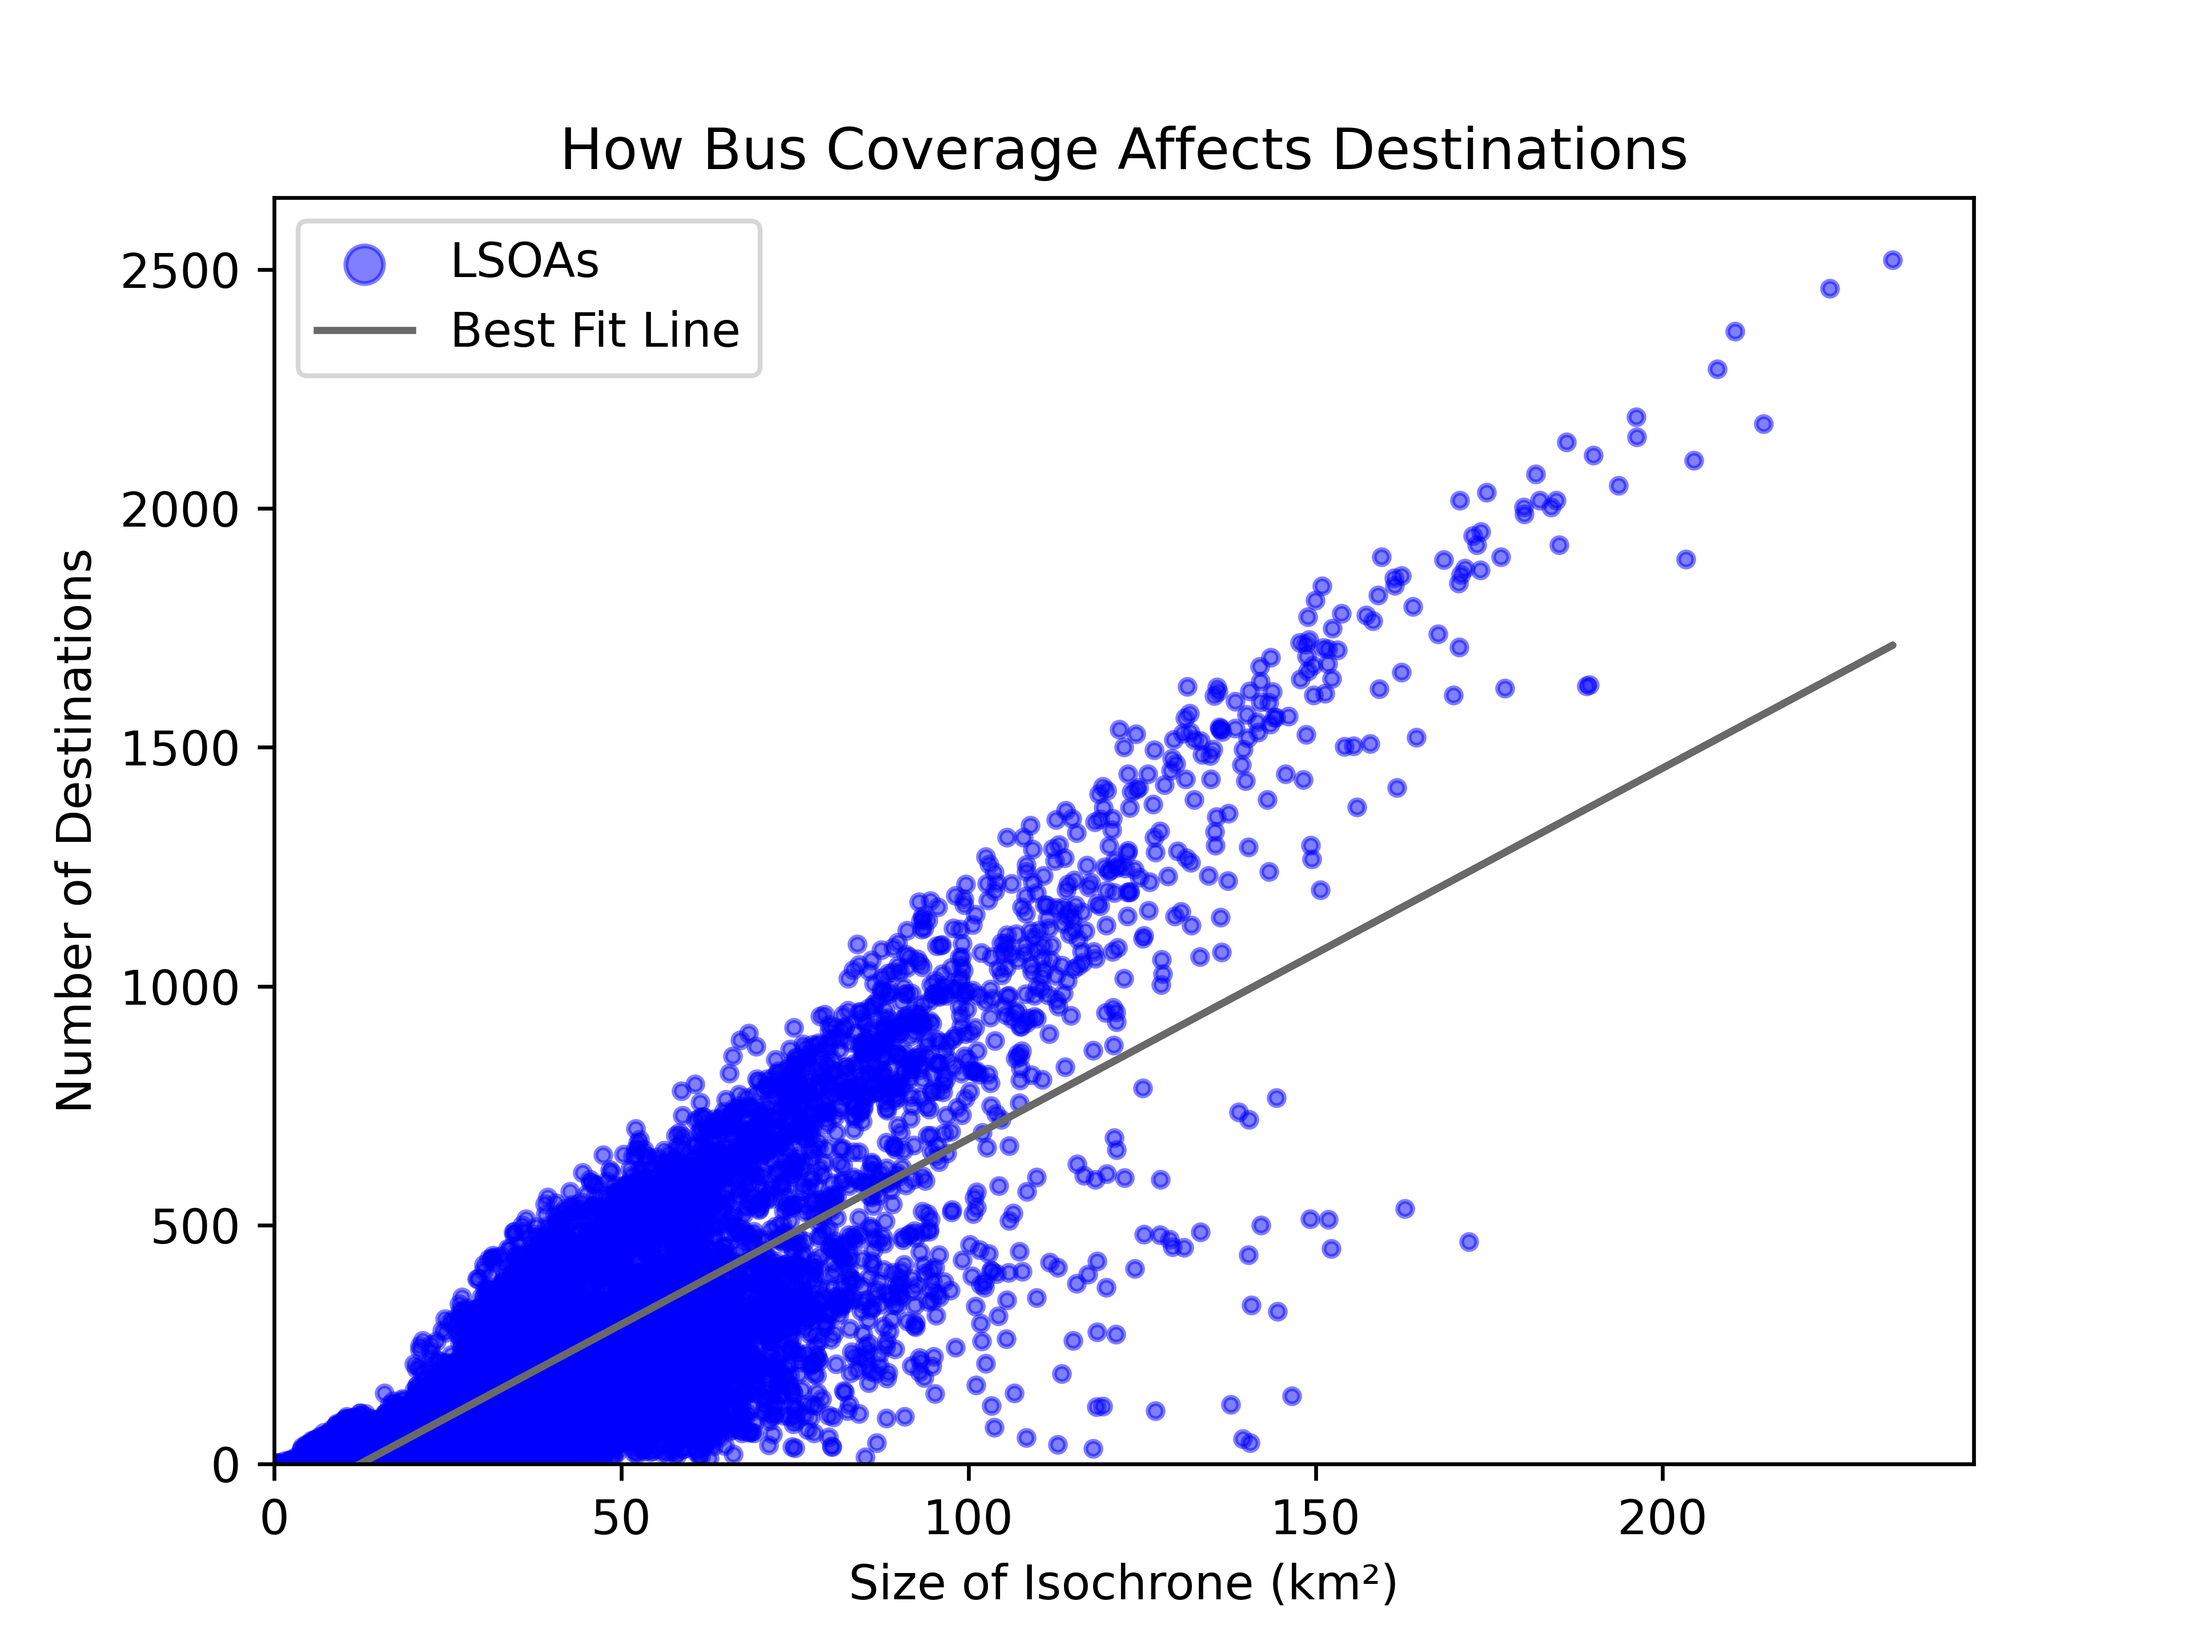
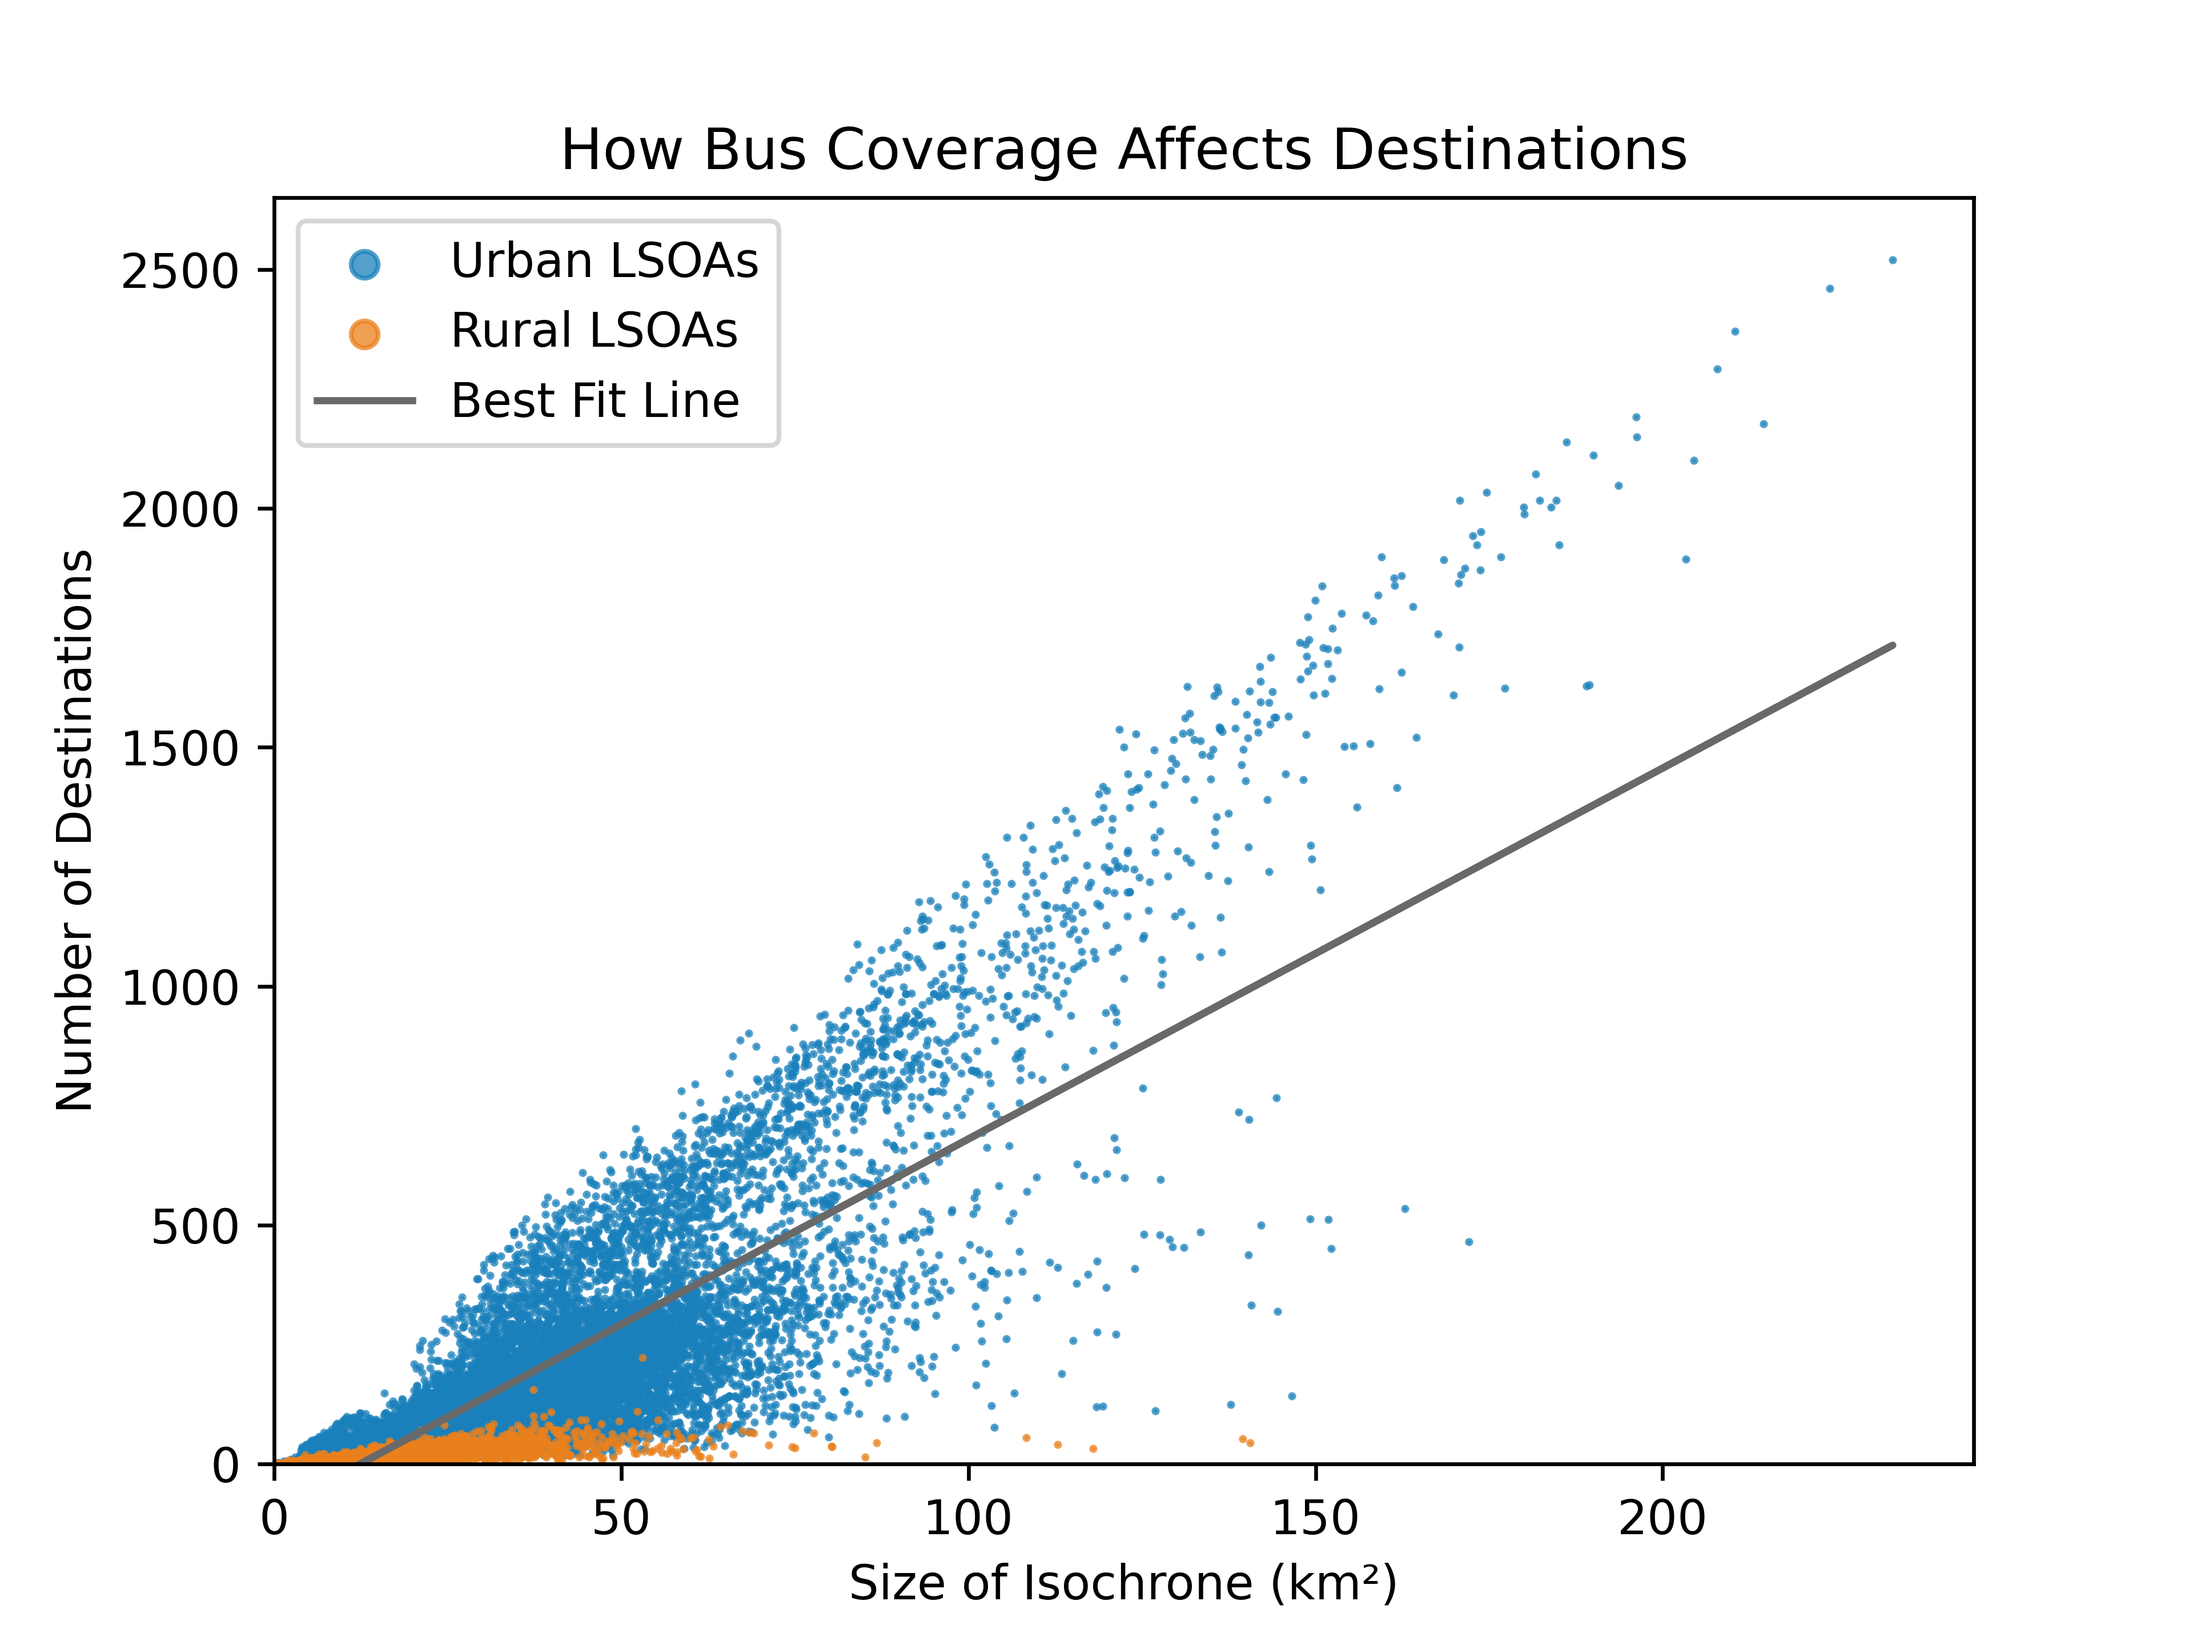
Create new scatterplots to look at comparing destinations to areas

diff --git a/plotting/size_destinations_scatterplot.py b/plotting/size_destinations_scatterplot.py
@@ -1,15 +1,24 @@
 import numpy as np
 import pandas as pd
+import geopandas as gpd
 import matplotlib.pyplot as plt
 from scipy.stats import pearsonr
-from common.data import OUT_DIR
+from common.data import OUT_DIR, load_dataset, Datasets
 
-# Load areas and destination results
+# Load LSOA boundaries
+lsoas = load_dataset(Datasets.LSOA_BOUNDARIES)
+
+# Load isochrone area values
 areas = pd.read_csv(OUT_DIR / "areas" / "lsoas.csv")
-destinations = pd.read_csv(OUT_DIR / "destinations" / "totals.csv")
+areas: gpd.GeoDataFrame = lsoas.merge(areas, on="id")
 
-# Create single dataframe
+# Create single dataframe with destination results
+destinations = pd.read_csv(OUT_DIR / "destinations" / "totals.csv")
 results = pd.merge(areas, destinations, on="id")
+
+# Create seperate dataframes for rural and urban LSOAs
+urban = results[results['ruc'].isin(["UN1", "UF1"])]
+rural = results[results['ruc'].isin(["RSN1", "RLN1", "RLF1", "RSF1"])]
 
 # Calculate correlation coefficients
 car_coef = pearsonr(results['car_area'], results['total_car'])
@@ -41,13 +50,14 @@ plt.close()
 #
 # ---------------------------------
 
-# Plot area to destinations as scatterplot
-plt.scatter(results['bus_area'], results['total_bus'], color="blue", alpha=0.5, s=10, label="LSOAs")
+# Plot area to destinations as scatterplot by ruc classification
+plt.scatter(urban['bus_area'], urban['total_bus'], color="#1a80bb", alpha=0.75, s=0.5, label="Urban LSOAs")
+plt.scatter(rural['bus_area'], rural['total_bus'], color="#ea801c", alpha=0.75, s=0.5, label="Rural LSOAs")
 
 # Add line of best fit
 slope, intercept = np.polyfit(results['bus_area'], results['total_bus'], 1)
 plt.plot(results['bus_area'], slope*results['bus_area'] + intercept, color='dimgrey', linestyle='solid', linewidth=1.5, label='Best Fit Line')
-plt.legend(loc="upper left", fontsize=10, markerscale=2.5)
+plt.legend(loc="upper left", fontsize=10, markerscale=8)
 
 # Add title and labels
 plt.title('How Bus Coverage Affects Destinations')
@@ -66,15 +76,27 @@ plt.close()
 #
 # ---------------------------------
 
-# Plot area to destinations as scatterplot
-plt.scatter(results['ratio_x'], results['ratio_y'], color="blue", alpha=0.5, s=10)
+# Calculate correlation coefficients
+urban_coef = pearsonr(urban['ratio_x'], urban['ratio_y'])
+print(f"[URBAN] Area-Destinations Correlation Coefficient: {urban_coef.statistic:.2f} ({urban_coef.pvalue})")
+rural_coef = pearsonr(rural['ratio_x'], rural['ratio_y'])
+print(f"[RURAL] Area-Destinations Correlation Coefficient: {rural_coef.statistic:.2f} ({rural_coef.pvalue})")
+
+# Filter out outliers
+urban = urban[(urban['ratio_x'] < 0.3) & (urban['ratio_y'] < 1)]
+
+# Plot area to destinations as scatterplot with different colours for urban-rural
+plt.scatter(urban['ratio_x'], urban['ratio_y'], color="#1a80bb", alpha=0.75, s=0.5, label="Urban LSOAs")
+plt.scatter(rural['ratio_x'], rural['ratio_y'], color="#ea801c", alpha=0.75, s=0.5, label="Rural LSOAs")
 
 # Add title and labels
-plt.title('Comparison of Indicator Values')
+plt.title('Comparison of Indicator Values by Settlement Type')
 plt.xlabel('Area Ratio')
 plt.ylabel('Destinations Ratio')
 plt.xlim(left=0)
 plt.ylim(bottom=0)
 
 # Save to png
+plt.legend(loc="upper right", markerscale=8)
+plt.tight_layout()
 plt.savefig(OUT_DIR / "plots" / "area_destinations_scatterplot.png", dpi=600)
